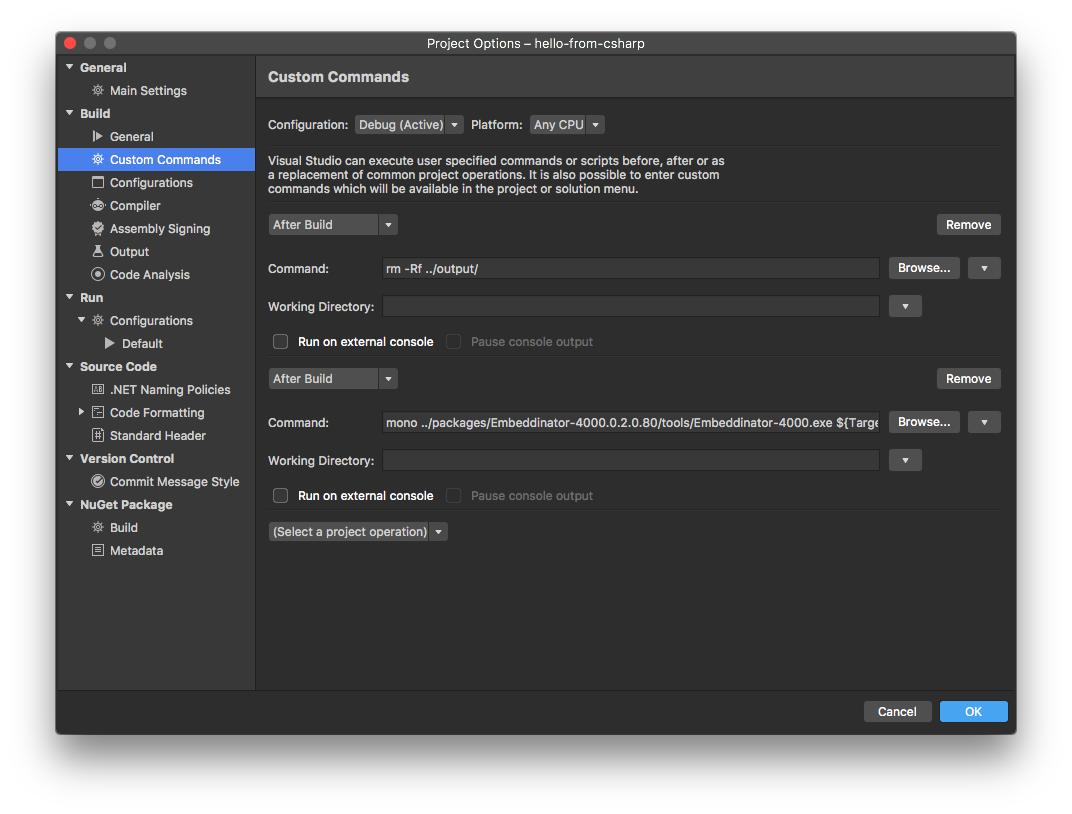
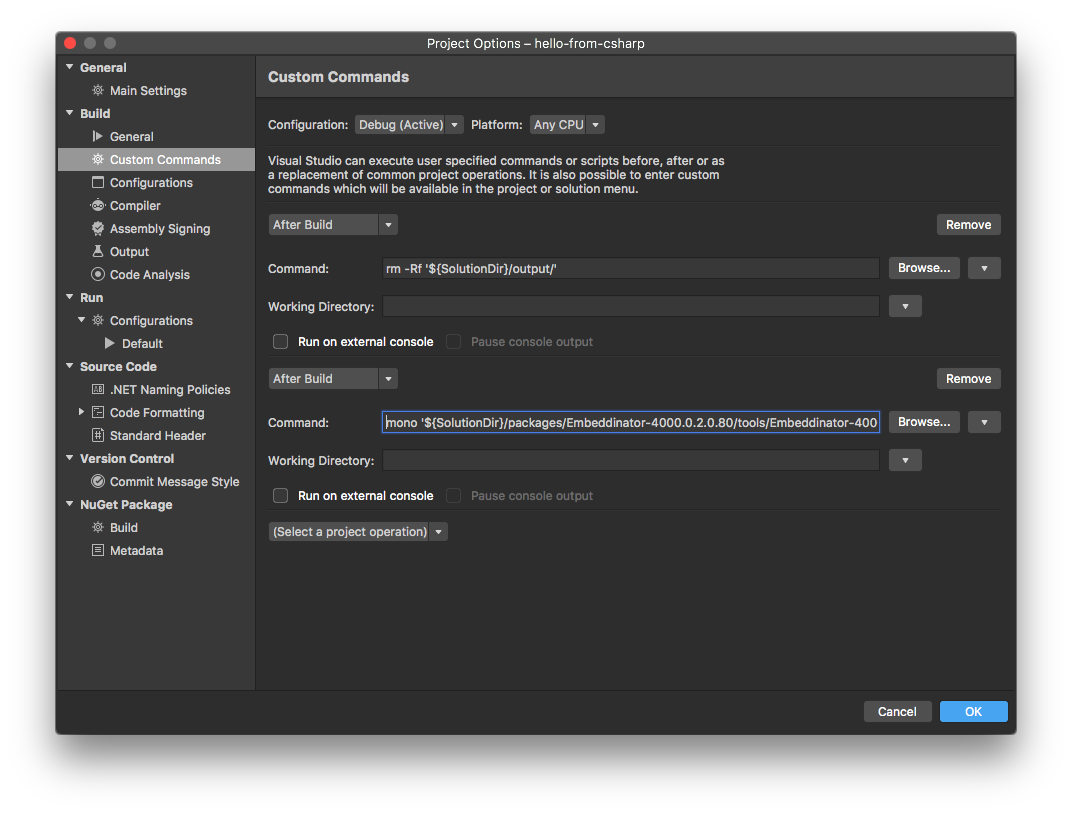
[docs] better post-build commands for VS Mac

Changed region(s): [[0.3694, 0.4914, 0.8312, 0.5528], [0.0308, 0.1843, 0.2463, 0.215], [0.4002, 0.3071, 0.5233, 0.3378]]

diff --git a/docs/getting-started-java-android.md b/docs/getting-started-java-android.md
@@ -71,13 +71,13 @@ In Visual Studio for Mac, go to _Project Options | Build | Custom Commands_ and 
 
 Setup the following commnd:
 ```
-mono ../packages/Embeddinator-4000.0.2.0.80/tools/Embeddinator-4000.exe ${TargetPath} --gen=Java --platform=Android --outdir=../output -c
+mono '${SolutionDir}/packages/Embeddinator-4000.0.2.0.80/tools/Embeddinator-4000.exe' '${TargetPath}' --gen=Java --platform=Android --outdir='${SolutionDir}/output' -c
 ```
 _NOTE: make sure to use the version number you installed from NuGet_
 
 If you are going to be doing ongoing development on the C# project, you might also add a custom command to clean the `output` directory prior to running Embeddinator:
 ```
-rm -Rf ../output/
+rm -Rf '${SolutionDir}/output/'
 ```
 
 ![Custom Build Action](VisualStudioCustomBuild.png)
